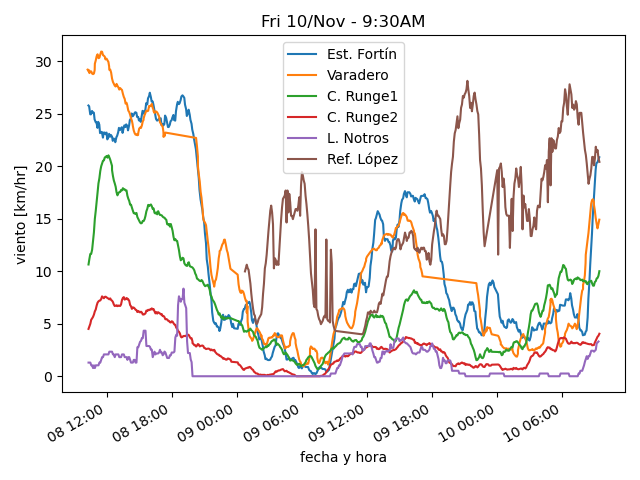
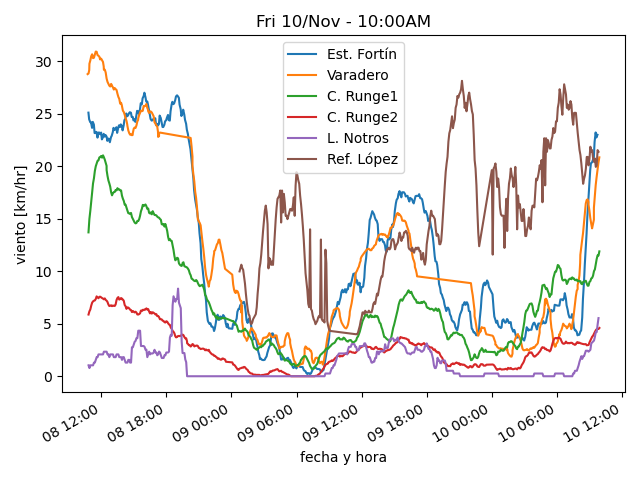
actualiza datos

diff --git a/estaciones/estacion3.html b/estaciones/estacion3.html
@@ -18,32 +18,32 @@
     </tr>
     <tr>
      <td class="stats_data">
-      9:24AM
+      9:54AM
      </td>
     </tr>
     <tr>
      <td class="stats_data">
-      12.2⁰C
+      12.4⁰C
      </td>
     </tr>
     <tr>
      <td class="stats_data">
-      4.2⁰C
+      4.8⁰C
      </td>
     </tr>
     <tr>
      <td class="stats_data">
-      58.2%
+      59.6%
      </td>
     </tr>
     <tr>
      <td class="stats_data">
-      996.92hPa
+      996.72hPa
      </td>
     </tr>
     <tr>
      <td class="stats_data">
-      7.7/12.6 km/hr WNW
+      9.0/12.6 km/hr NW
      </td>
     </tr>
     <tr>
@@ -53,12 +53,12 @@
     </tr>
     <tr>
      <td class="stats_data">
-      5.0
+      8.0
      </td>
     </tr>
     <tr>
      <td class="stats_data">
-      507.9 W/m²
+      708.3 W/m²
      </td>
     </tr>
    </tbody>

diff --git a/estaciones/estacion4.html b/estaciones/estacion4.html
@@ -18,32 +18,32 @@
     </tr>
     <tr>
      <td class="stats_data">
-      9:24AM
+      9:54AM
      </td>
     </tr>
     <tr>
      <td class="stats_data">
-      13.2⁰C
+      14.2⁰C
      </td>
     </tr>
     <tr>
      <td class="stats_data">
-      3.5⁰C
+      4.2⁰C
      </td>
     </tr>
     <tr>
      <td class="stats_data">
-      51.7%
+      51.2%
      </td>
     </tr>
     <tr>
      <td class="stats_data">
-      1005.93hPa
+      1005.72hPa
      </td>
     </tr>
     <tr>
      <td class="stats_data">
-      3.1/4.7 km/hr SW
+      3.6/5.1 km/hr SSW
      </td>
     </tr>
     <tr>
@@ -53,12 +53,12 @@
     </tr>
     <tr>
      <td class="stats_data">
-      4.0
+      5.0
      </td>
     </tr>
     <tr>
      <td class="stats_data">
-      452.7 W/m²
+      548.7 W/m²
      </td>
     </tr>
    </tbody>

diff --git a/estaciones/estacion1.html b/estaciones/estacion1.html
@@ -18,22 +18,22 @@
     </tr>
     <tr>
      <td class="stats_data">
-      9:24AM
+      9:44AM
      </td>
     </tr>
     <tr>
      <td class="stats_data">
-      14.6⁰C
+      14.8⁰C
      </td>
     </tr>
     <tr>
      <td class="stats_data">
-      4.7⁰C
+      4.6⁰C
      </td>
     </tr>
     <tr>
      <td class="stats_data">
-      51.3%
+      50.3%
      </td>
     </tr>
     <tr>
@@ -43,7 +43,7 @@
     </tr>
     <tr>
      <td class="stats_data">
-      18.8/21.5 km/hr WSW
+      16.0/25.7 km/hr W
      </td>
     </tr>
     <tr>
@@ -53,12 +53,12 @@
     </tr>
     <tr>
      <td class="stats_data">
-      1.9
+      2.3
      </td>
     </tr>
     <tr>
      <td class="stats_data">
-      552.0 W/m²
+      617.0 W/m²
      </td>
     </tr>
    </tbody>

diff --git a/estaciones/estacion2.html b/estaciones/estacion2.html
@@ -18,22 +18,22 @@
     </tr>
     <tr>
      <td class="stats_data">
-      9:24AM
+      9:54AM
      </td>
     </tr>
     <tr>
      <td class="stats_data">
-      11.2⁰C
+      11.8⁰C
      </td>
     </tr>
     <tr>
      <td class="stats_data">
-      6.8⁰C
+      7.1⁰C
      </td>
     </tr>
     <tr>
      <td class="stats_data">
-      74.4%
+      73.4%
      </td>
     </tr>
     <tr>
@@ -43,7 +43,7 @@
     </tr>
     <tr>
      <td class="stats_data">
-      19.2/22.4 km/hr NW
+      16.7/19.7 km/hr NW
      </td>
     </tr>
     <tr>
@@ -53,12 +53,12 @@
     </tr>
     <tr>
      <td class="stats_data">
-      4.0
+      6.0
      </td>
     </tr>
     <tr>
      <td class="stats_data">
-      496.2 W/m²
+      694.0 W/m²
      </td>
     </tr>
    </tbody>

diff --git a/estaciones/estacion6.html b/estaciones/estacion6.html
@@ -18,32 +18,32 @@
     </tr>
     <tr>
      <td class="stats_data">
-      9:25AM
+      9:50AM
      </td>
     </tr>
     <tr>
      <td class="stats_data">
-      8.2⁰C
+      8.3⁰C
      </td>
     </tr>
     <tr>
      <td class="stats_data">
-      -3.1⁰C
+      -2.3⁰C
      </td>
     </tr>
     <tr>
      <td class="stats_data">
-      45.0%
+      47.0%
      </td>
     </tr>
     <tr>
      <td class="stats_data">
-      1002.17hPa
+      1001.8hPa
      </td>
     </tr>
     <tr>
      <td class="stats_data">
-      8.0/19.3 km/hr N
+      8.0/20.9 km/hr NE
      </td>
     </tr>
     <tr>
@@ -58,7 +58,7 @@
     </tr>
     <tr>
      <td class="stats_data">
-      904.0 W/m²
+      899.0 W/m²
      </td>
     </tr>
    </tbody>

diff --git a/estaciones/estacion5.html b/estaciones/estacion5.html
@@ -18,32 +18,32 @@
     </tr>
     <tr>
      <td class="stats_data">
-      9:20AM
+      9:50AM
      </td>
     </tr>
     <tr>
      <td class="stats_data">
-      15.1⁰C
+      15.2⁰C
      </td>
     </tr>
     <tr>
      <td class="stats_data">
-      4.5⁰C
+      3.1⁰C
      </td>
     </tr>
     <tr>
      <td class="stats_data">
-      49.0%
+      44.0%
      </td>
     </tr>
     <tr>
      <td class="stats_data">
-      1004.61hPa
+      1004.34hPa
      </td>
     </tr>
     <tr>
      <td class="stats_data">
-      0.5/3.5 km/hr SSW
+      2.9/9.7 km/hr S
      </td>
     </tr>
     <tr>
